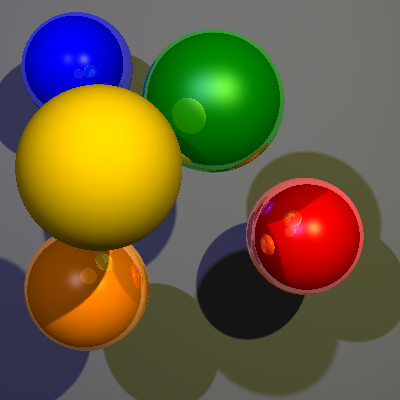
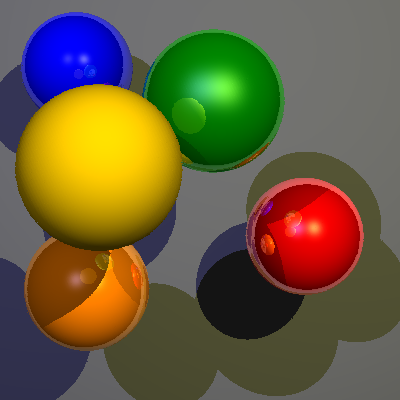
seamless DoF

diff --git a/raytracerframework_cpp/scene.cpp b/raytracerframework_cpp/scene.cpp
@@ -245,27 +245,45 @@ void Scene::render(Image &img)
 	float offsetX = 0.5/superSamplingFactor;
 	float offsetY = 0.5/superSamplingFactor;
 
-	#pragma omp parallel for
-    for (int y = 0; y < h; y++) 
-	{
-        for (int x = 0; x < w; x++) 
-		{
-			Color sumColor = Color(0.0,0.0,0.0);
+	double c = camera->apertureSize/(camera->up.length()*sqrt(camera->apertureSample));
+	const double goldenAngle = 2*3.141592653589793238462643383279502884*((3-sqrt(5))/2);
 
-			for(int yy = 1;yy<=superSamplingFactor;yy++)
+	Point initialEye = camera->eye ;
+
+	for(int n = 0;n<camera->apertureSample ;n++)
+	{
+		double r=c*sqrt(n);
+		double th=n*goldenAngle;
+
+		#pragma omp parallel for
+    	for (int y = 0; y < h; y++) 
+		{
+        	for (int x = 0; x < w; x++) 
 			{
-				for(int xx = 1; xx<=superSamplingFactor;xx++)
+				Color sumColor = Color(0.0,0.0,0.0);
+
+				for(int yy = 1;yy<=superSamplingFactor;yy++)
 				{
-            		Point pixel(x+(offsetX*xx), h-1-y+(offsetY*yy), 0);
-					Ray ray = hasCamera ? camera->rayAt(pixel) : Ray(eye, (pixel - eye).normalized()) ;
-            		Color col = trace(ray, farPoint, nearPoint,0);
-            		col.clamp();
-            		sumColor += col;
+					for(int xx = 1; xx<=superSamplingFactor;xx++)
+					{
+						int pixelIndex = ((x*w*xx*superSamplingFactor)+(y*yy));
+						camera->eye = Point(initialEye.x+r+fmod(pixelIndex*1.61803398875,1.0)*cos(th+pixelIndex),initialEye.y+r*sin(th+pixelIndex),camera->eye.z);
+			
+            			Point pixel(x+(offsetX*xx), h-1-y+(offsetY*yy), 0);
+						Ray ray = hasCamera ? camera->rayAt(pixel) : Ray(eye, (pixel - eye).normalized()) ;
+            			Color col = trace(ray, farPoint, nearPoint,0);
+            			col.clamp();
+            			sumColor += col;
+					}
 				}
-			}
-			img(x,y) = sumColor/(superSamplingFactor*superSamplingFactor);
-        }
+				img(x,y) += sumColor/(superSamplingFactor*superSamplingFactor);
+        	}
+		}
     }
+	
+	for (int y = 0; y < h; y++) 
+        for (int x = 0; x < w; x++) 
+			img(x,y)/=camera->apertureSample;
 }
 
 
